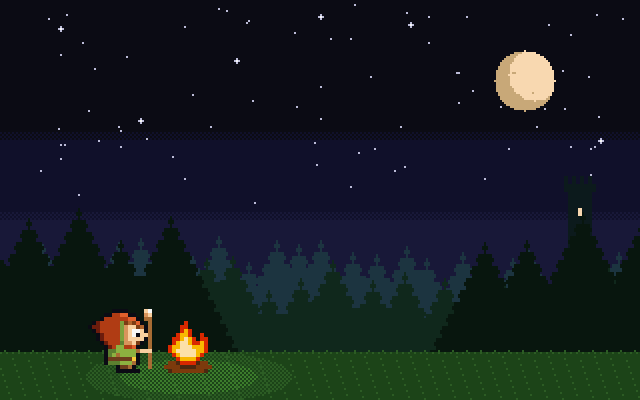
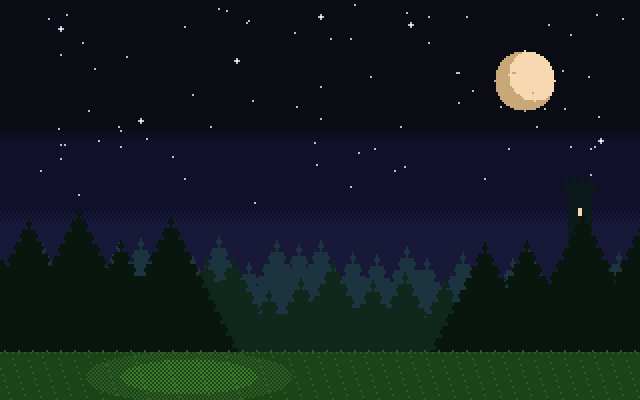
M6: animerad startsida – hjälten andas, brasan fladdrar

Changed region(s): [[0.125, 0.78, 0.3438, 0.93]]

diff --git a/src/index.css b/src/index.css
@@ -4,8 +4,6 @@
 
 @custom-variant dark (&:is(.dark *));
 
-/* Pixelram: fyra skuggor ger en 4 px ram med "hackade" hörn som i NES-menyer.
-   Färgen styrs av --pixel-color (vit om inget annat anges). */
 @utility pixel-border {
   --pixel-edge: var(--pixel-color, var(--color-foreground));
   box-shadow:
@@ -15,13 +13,41 @@
     4px 0 0 0 var(--pixel-edge);
 }
 
-/* Skarpa pixlar när en liten bild skalas upp */
 @utility pixelated {
   image-rendering: pixelated;
 }
 
 body {
   line-height: 1.6;
+}
+
+@theme {
+  --animate-hero-idle: hero-idle 1.6s steps(1) infinite;
+  --animate-campfire: campfire 0.6s steps(1) infinite;
+
+  @keyframes hero-idle {
+    0% {
+      background-position: 0% 0;
+    }
+    50% {
+      background-position: 100% 0;
+    }
+  }
+
+  @keyframes campfire {
+    0% {
+      background-position: 0% 0;
+    }
+    25% {
+      background-position: 33.333% 0;
+    }
+    50% {
+      background-position: 66.667% 0;
+    }
+    75% {
+      background-position: 100% 0;
+    }
+  }
 }
 
 @theme inline {
@@ -103,7 +129,6 @@ body {
   --sidebar-border: #6c6c8c;
   --sidebar-ring: #f8b800;
 }
-
 
 @layer base {
   * {

diff --git a/src/components/StartScene.tsx b/src/components/StartScene.tsx
@@ -1,0 +1,22 @@
+import PixelImage from "@/components/pixel/PixelImage";
+export default function StartScene() {
+  return (
+    <div
+      aria-hidden="true"
+      className="pointer-events-none absolute inset-0 -z-10 overflow-hidden [container-type:size]"
+    >
+      <div className="absolute bottom-0 left-0 aspect-[16/10] w-[max(100cqw,160cqh)]">
+        <PixelImage
+          src="/ui/start-scene.png"
+          className="absolute inset-0 h-full w-full"
+        />
+
+        {/* Hjälten: 2 bilder (står / andas ut) i en sprite sheet på 32×16 */}
+        <div className="absolute top-[77.25%] left-[13.75%] h-[16%] w-[10%] bg-[url(/ui/hero-idle.png)] [background-size:200%_100%] pixelated animate-hero-idle motion-reduce:animate-none" />
+
+        {/* Lägerelden: 4 bilder i en sprite sheet på 64×16 */}
+        <div className="absolute top-[79.25%] left-[24.375%] h-[16%] w-[10%] bg-[url(/ui/campfire.png)] [background-size:400%_100%] pixelated animate-campfire motion-reduce:animate-none" />
+      </div>
+    </div>
+  );
+}

diff --git a/src/pages/StartPage.tsx b/src/pages/StartPage.tsx
@@ -1,16 +1,15 @@
 import MenuItem from "@/components/pixel/MenuItem";
 import PixelPanel from "@/components/pixel/PixelPanel";
-import ScreenBackground from "@/components/pixel/ScreenBackground";
+import StartScene from "@/components/StartScene";
 
 const menuItems = ["NEW GAME", "CONTINUE", "HOW TO PLAY", "SETTINGS"] as const;
 
 export default function StartPage() {
-  // TODO (tillsammans): useState för vald rad + W/S/Enter med useEffect
   const selected = 0;
 
   return (
     <div className="relative isolate flex min-h-screen w-full flex-col items-center gap-12 px-4 pt-20 pb-24">
-      <ScreenBackground src="/ui/start-scene.png" />
+      <StartScene />
 
       <header className="flex flex-col items-center gap-4 text-center">
         <h1 className="text-4xl tracking-wide text-primary [text-shadow:6px_6px_0_#a83800,10px_10px_0_#0b0b14] md:text-6xl">
